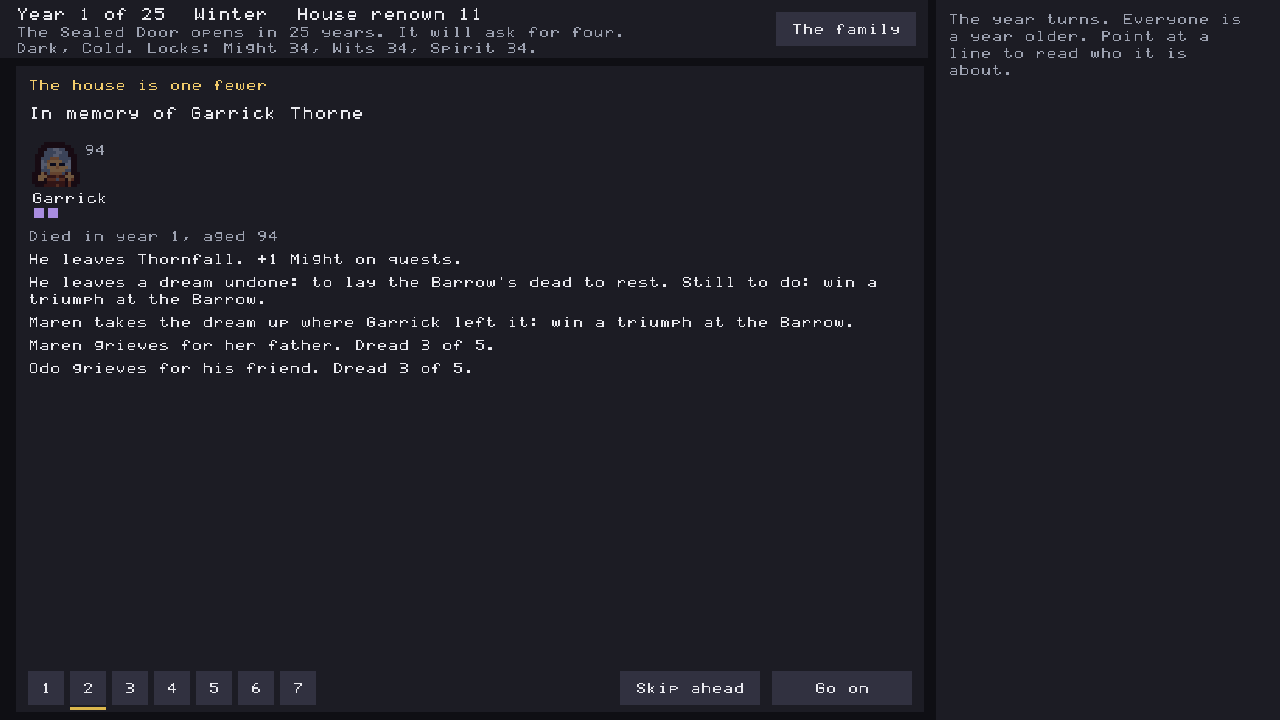
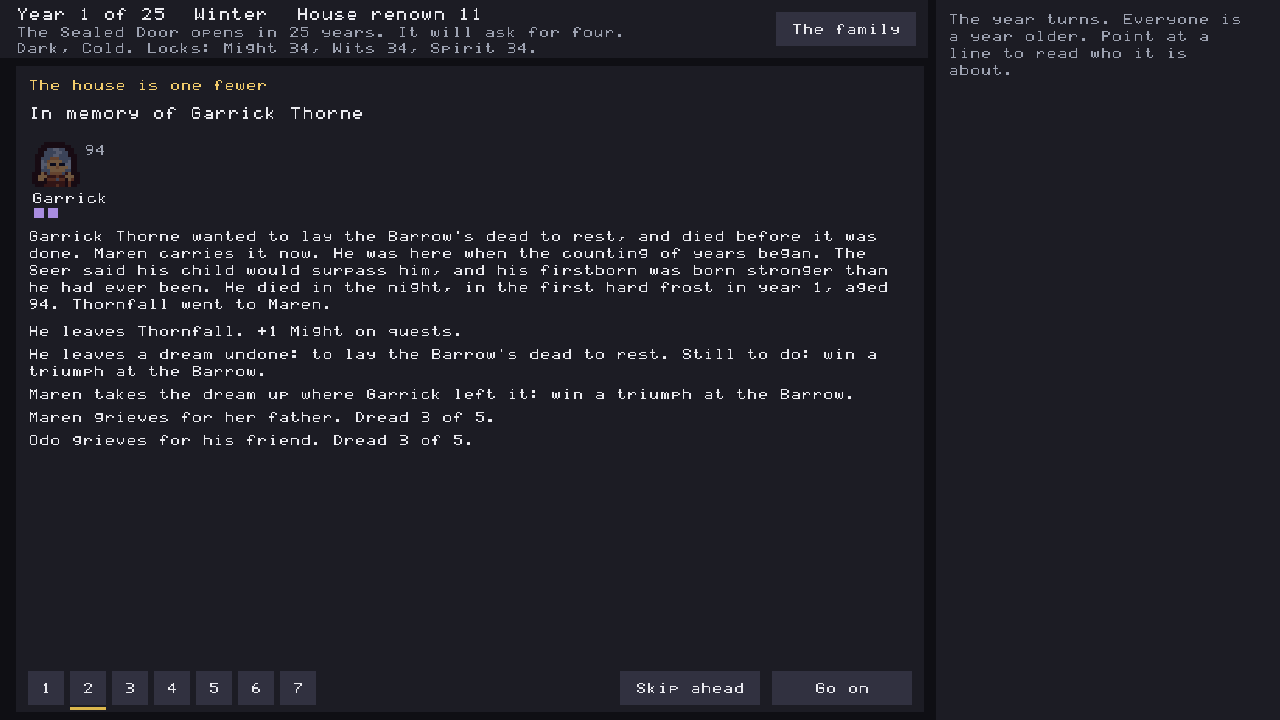
keifu: SPEC-GAPS KG-57 to KG-64 with their code sites; FINDINGS for session 9 (draft; mutation numbers to come); the pictures re-taken — W9's three, W8's death pages under their epitaphs, and every board the founding's two wordings moved
Claude-Session: https://claude.ai/code/session_01B8QZTYLHUWiGELx1MWVQ8k

diff --git a/games/keifu/src/epitaph_ends.rs b/games/keifu/src/epitaph_ends.rs
@@ -11,7 +11,8 @@ use crate::ids::{BondKind, Destiny, LegacyKind, Part, Pronoun};
 use crate::text::{capitalized, fmt, name_list, year_telling};
 
 /// PROPHECY (`:328-382`): nothing for the unspoken; each destiny's sentence, the `*_came`
-/// one once fulfilled; the Door by blood and by standing there; the greater student.
+/// one once fulfilled; the Door by blood and by standing there; the greater student, read
+/// as the students stand when the epitaph is composed (SPEC-GAPS KG-62).
 pub fn prophecy(content: &Content, heroes: &[Hero], id: HeroId) -> String {
     let lore = &content.epitaph;
     let hero = &heroes[id];
@@ -214,7 +215,8 @@ fn own_making(hero: &Hero, possessive: &str) -> String {
 
 /// LEFT (`:450-484`): what the living made or carry; the departed's patron; what the dead
 /// left — a legacy beside an heirloom, a tale, a blessing, a made heirloom, an heirloom
-/// that went or was buried.
+/// that went or was buried. SPEC-GAPS KG-64: the heir is the bequest's, which a ghost
+/// taken up at a coming of age also names.
 pub fn left(content: &Content, heroes: &[Hero], id: HeroId) -> String {
     let lore = &content.epitaph;
     let hero = &heroes[id];

diff --git a/games/keifu/src/epitaph.rs b/games/keifu/src/epitaph.rs
@@ -47,6 +47,7 @@ impl Wording {
 
 /// Roll a wording (SPEC §20, CONSTANTS §13): the frame uniform over the three, never the
 /// frame rolled last anywhere in the run (the first is uniform over all), then nine coins.
+/// SPEC-GAPS KG-58: the frame first, then one fair coin per part in `parts` order.
 pub fn roll_wording(writing: &mut WritingMemory, rng: &mut Rng) -> Wording {
     let frame = match writing.last_frame {
         None => index(rng, EPITAPH_FRAME_COUNT),
@@ -128,6 +129,7 @@ pub fn compose(content: &Content, heroes: &[Hero], id: HeroId, wording: Wording)
 /// "His "/"Her " becomes "<full name>'s"; otherwise the first " he "/" she " inside
 /// becomes " <full name> "; otherwise the part is unchanged. The forms are the hero's
 /// own pronoun's, from the lore — the only pronoun of the hero a part can carry.
+/// SPEC-GAPS KG-60: the inside search is the lower-case form, case-sensitive, once.
 pub fn name_the_subject(content: &Content, hero: &Hero, part: &str) -> String {
     let forms = &content.lore.pronouns[hero.pronoun.index()];
     let full = hero.full_name();

diff --git a/games/keifu/src/epitaph_parts.rs b/games/keifu/src/epitaph_parts.rs
@@ -90,7 +90,8 @@ pub fn parts(content: &Content, heroes: &[Hero], id: HeroId, wording: Wording) -
 }
 
 /// ORIGIN (`:154-177`): an arrival; nothing for the dead before the first year; born in
-/// play to parents; a child of the old house; a founder.
+/// play to parents; a child of the old house; a founder. SPEC-GAPS KG-63: "a parent" is
+/// the `parents` field, named by first name in its order.
 fn origin(content: &Content, heroes: &[Hero], id: HeroId, wording: Wording) -> String {
     let lore = &content.epitaph;
     let hero = &heroes[id];
@@ -129,7 +130,7 @@ fn origin(content: &Content, heroes: &[Hero], id: HeroId, wording: Wording) -> S
 
 /// ROADS (`:187-219`): never quested (a living child's teachers, a dead child, an adult
 /// who kept the house); quested before any FIRST_QUEST deed was kept (a founder, KG-40);
-/// once; many.
+/// once (SPEC-GAPS KG-59: `quests_faced` is exactly one); many.
 fn roads(content: &Content, heroes: &[Hero], id: HeroId, wording: Wording) -> String {
     let lore = &content.epitaph;
     let hero = &heroes[id];

diff --git a/games/keifu/src/family.rs b/games/keifu/src/family.rs
@@ -142,6 +142,7 @@ pub fn tally(content: &Content, house: &House) -> String {
 
 /// The remembrance for a pointed-at hero (SPEC §19.2): their full name, then the epitaph
 /// if one is composed, else — for the living — the station and the `living_*` lines.
+/// SPEC-GAPS KG-61: `ui.family.departed` is never shown; every crowning composes one.
 pub fn remembrance(content: &Content, house: &House, id: HeroId) -> Vec<String> {
     let words = &content.words;
     let heroes = &house.heroes;

diff --git a/games/keifu/FINDINGS.md b/games/keifu/FINDINGS.md
@@ -1053,3 +1053,98 @@ read and used. The documents were asked nothing new.
   to `heirs.rs`) and w7 W2, W4 and W5 (the turning's controls and winter page). The round ran as one
   combined list of the seven, labels prefixed by their list, over four worktrees: about two faults a
   minute on this machine's four cores.
+
+---
+
+## Session 9 (W9)
+
+**Reading discipline, session 9.** Read: `CLAUDE.md`, the `make-game` skill, the crate whole
+(`SPEC-GAPS.md` to its end — 56 entries counted from the file, `FINDINGS.md`, `mutants/` — the harness
+whole and each list's headers and re-cut sites, `src/`), and from `spec/` MODULES.md, SPEC.md §0-§4, §7.4,
+§9.5, §14.4, §15-§23, CONSTANTS.md §13-§14, OPEN-QUESTIONS.md's OQ-2 to OQ-5 and OQ-12/13,
+`content/README.md`, and the content W9 reads (`epitaph.json` whole; `dreams.json`'s `progress_tellings`;
+`legacies.json`'s `legacy_nouns` and heirloom names; `door.json`'s lock names; `household.json`'s dead;
+`lore.json`'s tags, places and pronouns; `writing.json`'s fate pools; `ui-text.json`'s `family` and
+`turning`; `lines.json`'s `fate.*`). `docs/api/`: nothing new opened — W9 used only engine surfaces earlier
+sessions had read. **Engine source: not opened.** `games/ninjo/` and `attic/`: not opened;
+`grep -oh "^### G-0[0-9]*" games/*/FINDINGS.md` read the G-headings only (G-039's method). Incidental,
+disclosed: `tools/test`'s report prints ninjo's verify lines. No sibling game read.
+
+### G-066 — "W5's founded battery reaches no death and cannot move", and it moved
+
+Class: process (misled) · Session: keifu 9 · Owner: the keifu handoff
+
+**Doing:** re-baselining the batteries the wording draw shifts — "the W6 and W8 batteries pass death pages,
+so their sequences shift ...; W5's founded battery reaches no death and cannot move" (G-060's own fix,
+applied).
+
+**Expected:** W5's numbers unchanged, as G-060 found them in session 8.
+
+**Happened:** they moved — 568 of 600 (94.7%) became 566 (94.3%), and the year-1 draws and the loop's
+counts with them. SPEC §22.2 puts **two** wording rolls at the founding ("two epitaph wordings ... Then board
+generation for year 1"), before the first board, and every battery founds its houses through
+`House::found`. The handoff counted only the death page's roll, the one session 8 marked; the founding's two
+(session 1's, never marked in code or named as a deviation) and the crowning's (session 6's, marked at its
+site in `harm.rs`) were untaken too. **What I did on its authority:** took W5 as fixed until the first verify
+run printed 566; then re-read §22.2, took all three draws, and noted W5's new baseline beside the others
+(the W8 battery's printed reference to it now reads 566).
+
+**Fix:** a handoff that names a shift's reach could list the draws from §22.2 rather than from the marked
+sites; and a session that skips a draw the spec lists should mark the site and say so in FINDINGS, as
+session 8 did for the death page — session 1 did neither for the founding's two.
+
+### docs/api: 0 findings
+
+W9 is rules over the game's own state — the wording, the parts, the composition — plus one more line on
+two screens that already existed. Every engine surface it touched (the page's rows and targets, the
+per-session recorder of G-043, the floors' measurement, `Rng`'s draws) earlier sessions had read and used.
+The documents were asked nothing new.
+
+### The game's own (session 9)
+
+- **Both deviations are retired.** The death page rolls its wording at step 1 (the site session 8 marked)
+  and composes at step 8; the page sets the epitaph under the dead's card, read off the hero, so the heir
+  choice's recomposition shows at once. The family's remembrance shows the dead's and the crowned's
+  epitaphs where session 1's condition line stood. The condition line stays only for a summer's dead before
+  their page (SPEC-GAPS KG-57), and on the hero sheet itself, where §19.1 puts it.
+- **Every wording draw the spec lists is taken**: the founding's two (Elsbeth, then Aud, before the board),
+  each death page's, and each crowning's (G-066). The Ending's — un-mourned dead and every living hero — are
+  W10's; nothing living carries a wording or an epitaph yet, and the battery holds that.
+- **One source for the epitaph.** `epitaph.rs` rolls and composes; `epitaph_parts.rs` and `epitaph_ends.rs`
+  hold the nine parts' rules; `epitaph_lore.rs` reads `epitaph.json` by key, with every list checked against
+  the canonical part order and the budget and frame count against CONSTANTS §13. Six callers compose — the
+  founding, a crowning, the death page, the heir choice, a ghost laid, a ghost taken up — and nothing else
+  writes an epitaph. A recomposition with no wording ever rolled panics, loudly.
+- **Elsbeth's epitaph, by hand.** ORIGIN is empty (dead before the first year), END is two sentences, DREAM
+  ("died before it was done": her dream's fate is UNDECIDED at founding, so the rule falls to `dream.died`)
+  and LOVE one each: four. FEAR's coin decides the rest — the two-sentence wording fills the budget at six
+  and ROADS's "went out eleven times in all" is skipped; the one-sentence wording leaves room for it. The
+  oracle holds the remembrance to one of the six resulting strings, shipped as literals, and part by part.
+  Over the 27 recorded seeds: frames 10/8/9, the one-sentence fear on 17.
+- **Every battery epitaph is exactly six sentences.** 44,532 readings over the W8 battery's dead, all at
+  six: a dead hero always has more than six sentences' worth of parts, so the priority order decides what is
+  said, every time — which makes it the rule most worth the owner's eye (below).
+- **The W8 oracle reads Garrick's page across its leaves.** Six sentences under the card push the heir
+  choice to a continued leaf on most seeds; the oracle reads the heading, the title and the epitaph off the
+  first leaf and the prompt and heirs off the choice's, and "stays on the page" now means a leaf of page 2
+  (the view returns to the page's first leaf after the choice, as before).
+- **Recorded seeds and baselines.** `SEED_AFTER_SEVEN` re-recorded: 0x52ec_97b2_4d27_2e97 →
+  0x0213_ec98_7493_1ee4. The batteries move by the sequence, inside their bounds:
+  W5 founded 568/600 (94.7%) → 566/600 (94.3%), the reader's own call 516 → 521;
+  W6 2136 summers, 7251 quests, 207 closed, 1226 died questing → 2137, 7246, 218, 1289, the death roll
+  55/338, 446/1517, 441/943, 42/59 → 44/313, 487/1550, 442/975, 52/80 at danger 1-4;
+  W6's played summer on 27 seeds (setback 4, success 12, triumph 11 → 3, 14, 10);
+  W8 3957 turnings, 5 closed, old age 427, quests 99, 525 death pages, 1028 births, 1061 comings of age,
+  289 wanderers → 3973, 4, 439, 90, 529, 994, 1023, 325; W5's mark on played summers 78.1% → 78.7%.
+  One W6 floors staging was seed-bound — a played page "told five times over" stopped overflowing a leaf
+  when seed 1's summer became a one-line success — and is now told thirty times, whatever the dice.
+- **Pictures** (`screens/`): `w9-elsbeth.png` — the family in year 1, Elsbeth pointed at, her name and
+  epitaph on the remembrance panel (frame 2, the two-sentence fear); `w9-questing-death.png` — Brannoc,
+  fallen at the Barrow in year 1, his page's epitaph above "He leaves a dream undone" and the heirs;
+  `w9-old-age.png` — Odo, dead in his sleep at 94, his epitaph (his friend Garrick, the Seer's "outlive")
+  above the grief it caused.
+- **Voice, as shipped.** Content is identical by contract, and some joins read oddly; none was smoothed.
+  A SLEEP_DEATHS fate in `end.dead_0`: "He fell asleep over a book in the last week of winter in year 1,
+  aged 94." Aud's authored fate in `end.before_first_year`: "Aud Hale died of a fever, the winter Wren was
+  two, before the first year." A dead TEACH_A_GREATER teacher with no greater student: "... and he never
+  learned another thing."

diff --git a/games/keifu/SPEC-GAPS.md b/games/keifu/SPEC-GAPS.md
@@ -9,7 +9,8 @@ adjudicated one gets a **Resolved:** line.
 Session 1 (W0 + W1): 6 entries. Session 2 (W2): 6 entries, KG-7 to KG-12. Session 3 (W3):
 12 entries, KG-13 to KG-24. Session 4 (W4): 5 entries, KG-25 to KG-29. Session 5 (W5): 4
 entries, KG-30 to KG-33. Session 6 (W6): 7 entries, KG-34 to KG-40. Session 7 (W7): 6 entries,
-KG-41 to KG-46. Session 8 (W8): 10 entries, KG-47 to KG-56.
+KG-41 to KG-46. Session 8 (W8): 10 entries, KG-47 to KG-56. Session 9 (W9): 8 entries, KG-57 to
+KG-64.
 
 ---
 
@@ -715,3 +716,98 @@ KG-41 to KG-46. Session 8 (W8): 10 entries, KG-47 to KG-56.
   and a wanderer arrives into whatever phase their age is, told on their own page.
 - **Question:** `lineage/passage.jai:90-98` — where the previous phase is read from (a saved age, or
   `age - 1`, which would tell a wanderer of 20 that they are "in the prime of life now").
+
+---
+
+## KG-57 — the remembrance of the dead who await their death page
+
+- **Spec says:** §19.2 "Pointing at a node shows the remembrance: the epitaph if composed (the dead, the
+  crowned, and everyone at the Ending), otherwise for the living their station and `ui.family.living_*`
+  lines." §15.1 composes a summer's dead's epitaph on their death page, at the turning.
+- **Underdetermined:** what the family screen shows for a hero who died this summer — dead, so not "the
+  living", and with no epitaph composed until the turning. The family can be opened from the telling and
+  the hearth, where such a hero is pointed at.
+- **Port's choice:** their name and their sheet's first lines — station, and the condition "Died in year N,
+  aged A" — the stand-in session 1 used for every dead hero, now kept only for the dead the turning has not
+  yet reached (`src/family.rs` `remembrance`). Once the page composes the epitaph the remembrance shows it.
+- **Question:** `lineage/family-tree.jai:340-380` — what it shows when the epitaph is empty and the hero is
+  not living (the epitaph's empty string, or the `living_*` lines regardless).
+
+## KG-58 — the order of a wording's draws, and which coin is which part's
+
+- **Spec says:** §20 "a frame 0..2 rolled uniformly but never equal to the previous frame rolled anywhere in
+  the run, and nine independent fair coins (one per part, 0 or 1)"; `epitaph.json` `parts` lists the nine.
+- **Underdetermined:** whether the frame is drawn before the coins, how a fair coin is drawn (`index(2)` or
+  `chance(0.5)`), and whether the coins are indexed by `parts` or by another list (`priorities`, a frame).
+  None of it moves a distribution; all of it moves the sequence after a wording.
+- **Port's choice:** the frame first (`index(3)` for the run's first, `fresh_index(3, last)` after), then
+  nine `index(2)` draws, coin `i` for `parts[i]` (`src/epitaph.rs` `roll_wording`); the loader refuses a
+  `parts` list out of SPEC §20's order, since the coins are indexed by it.
+- **Question:** `lineage/epitaph.jai:62-70`.
+
+## KG-59 — ROADS's "exactly one"
+
+- **Spec says:** §20 ROADS "No FIRST_QUEST deed → `roads.count_only`. Exactly one → `roads.once`. Else
+  `roads.many_v`."
+- **Underdetermined:** exactly one of what — quests faced, or FIRST_QUEST deeds (of which a hero has at most
+  one, which would make `roads.many_v` unreachable).
+- **Port's choice:** `quests_faced` is exactly one (`src/epitaph_parts.rs` `roads`), the reading that leaves
+  every template reachable and matches `roads.once`'s words ("went out once").
+- **Question:** `lineage/epitaph.jai:199-208`.
+
+## KG-60 — the naming rule's pronouns and case
+
+- **Spec says:** §20 "a leading 'He '/'She ' becomes the full name; a leading 'His '/'Her ' becomes
+  '<full name>'s'; otherwise the first ' he '/' she ' inside becomes ' <full name> '".
+- **Underdetermined:** whether the rule looks for both pronouns or the subject's own, and whether the inside
+  search is case-sensitive (a later sentence's "She" is preceded by ". ", not " ").
+- **Port's choice:** the subject's own forms, from the lore (`He `/`His `/` he ` for him, `She `/`Her `/` she `
+  for her), and the inside search lower-case and case-sensitive, first occurrence only (`src/epitaph.rs`
+  `name_the_subject`). No template carries another hero's pronoun, so the first half cannot change a word.
+- **Question:** `lineage/epitaph.jai:118-140`.
+
+## KG-61 — `ui.family.departed`, never shown
+
+- **Spec says:** §19.2 the remembrance shows "the epitaph if composed (the dead, the crowned, ...)"; §7.4
+  every crowning rolls a wording and composes. `ui-text.json` has `family.departed` = "% %, in year %, aged %.
+  The house has had a patron at Court since." (`lineage/family-tree.jai:345`).
+- **Underdetermined:** when `family.departed` is shown, since every departed hero has an epitaph.
+- **Port's choice:** never: the crowned show their epitaph, as §19.2 says (`src/family.rs` `remembrance`).
+  If the original shows `departed` in place of the epitaph, the crowned's remembrance is the one to change.
+- **Question:** `lineage/family-tree.jai:340-346` — the condition on the `departed` line.
+
+## KG-62 — the greater student, as they stand when the epitaph is composed
+
+- **Spec says:** §20 PROPHECY "TEACH_A_GREATER: `prophecy.greater_came` naming the first student they
+  taught ... whose best base aptitude value exceeds the teacher's best base value, else `prophecy.greater`."
+- **Underdetermined:** a student who passes a dead teacher later — learning, a coming of age's teaching that
+  shows, a mending — moves no recomposition point, so the epitaph keeps the sentence composed at the death.
+- **Port's choice:** read when the epitaph is composed, and not recomposed for (`src/epitaph_ends.rs`
+  `prophecy`). The W9 battery counts how often a held epitaph and its hero's composition now differ this
+  way (0 in 160 houses).
+- **Question:** does the original recompose epitaphs anywhere §20 does not list (the Ending's "deaths not
+  yet given a page" suggests not)?
+
+## KG-63 — ORIGIN's "has a parent", and the parents' names
+
+- **Spec says:** §20 ORIGIN "born_year >= 1 and has a parent → `origin.born_v`. Has a parent →
+  `origin.child_of_old`"; the templates' argument is "parent names".
+- **Underdetermined:** whether a parent is known by the `parents` field or a PARENT bond (KG-39 met this for
+  the heir ranking), and whether "names" are first or full.
+- **Port's choice:** the `parents` field, in its order, first names as a name list — `content/README.md`'s
+  "name" (`src/epitaph_parts.rs` `origin`). Every parent the rules make (§4, §17.3) is in both, so the two
+  readings agree on every hero a run can make.
+- **Question:** `lineage/epitaph.jai:163-173`.
+
+## KG-64 — the heir a ghost taken up names, read by LEFT
+
+- **Spec says:** §9.5 at a coming of age "the dead hero's bequest becomes PASSED_ON to this hero and their
+  epitaph is recomposed"; §20 LEFT reads "an heir" for `left.legacy_and_heirloom`, `left.heirloom_made` and
+  `left.heirloom_went`, and "decided without heir" for `left.buried_with`.
+- **Underdetermined:** whether "PASSED_ON to this hero" records the taker as the bequest's heir (W8 chose
+  yes, so DREAM's "fate PASSED_ON with an heir" can name them). If it does, a dead hero whose heirloom was
+  buried and whose ghost a grandchild later takes up reads "<heirloom> went to <grandchild>" from then on.
+- **Port's choice:** the heir is the bequest's, whoever recorded it (`src/epitaph_ends.rs` `left`), as both
+  rules read it literally.
+- **Question:** `generation/hero-context/hero-context.jai:200-210` — does the take-up set `bequest.heir`?
+
